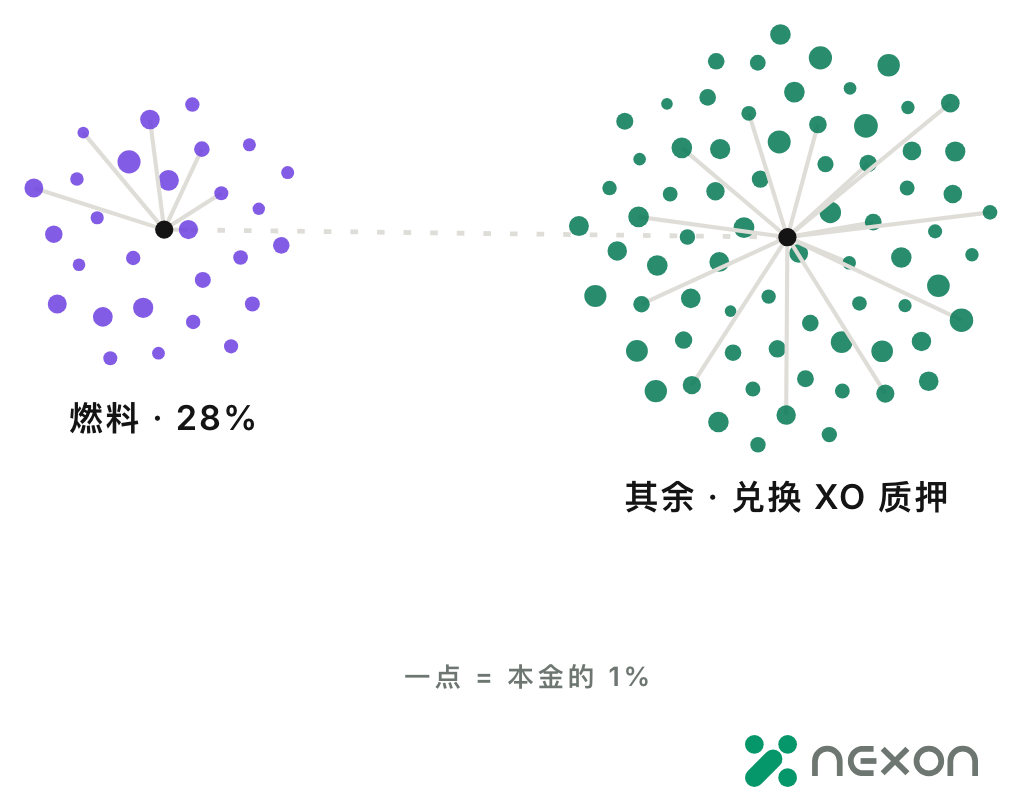
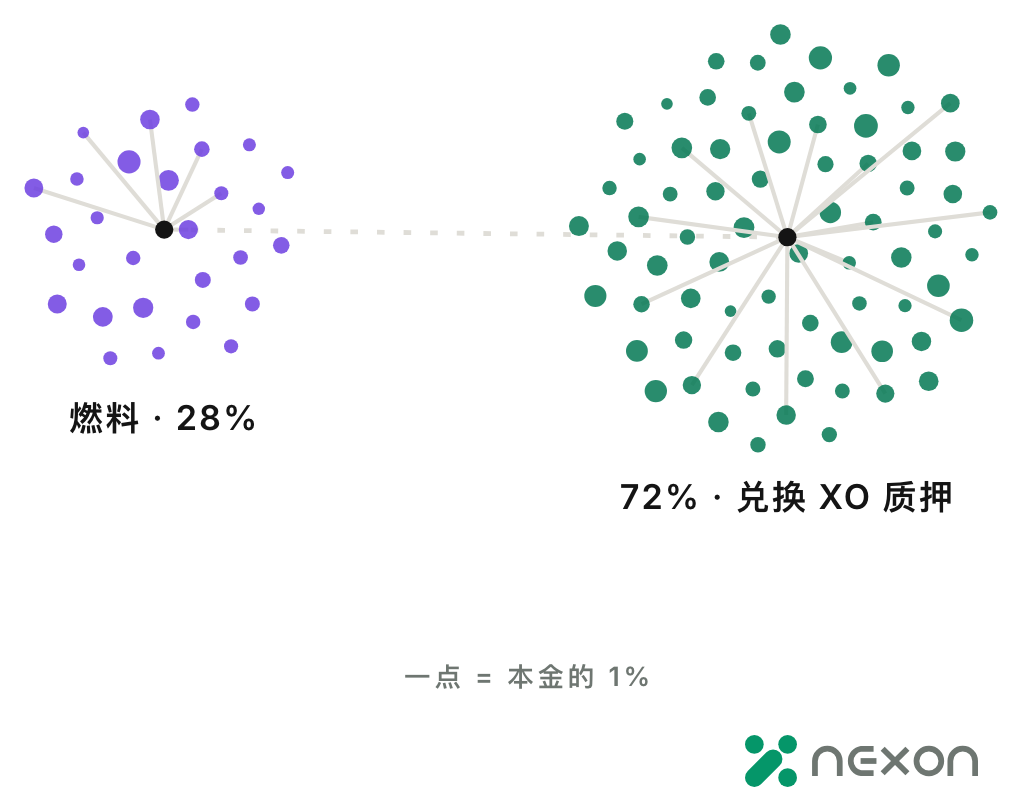
docs: spell out both halves of the deposit split
The leader's whiteboard reads 10,000 → 7,200 XO + 2,800 NX. The 2,800
half was already stated everywhere; the other half said only "the rest",
so a reader could not see where 28.8 USDT a day comes from.

- the staking leg now names its amount or its 72% share in every place
- "Stake = the rest" in the three flow blocks becomes "Stake = 72%"
- figure captions and the mermaid node follow
- the talk-track source still told writers not to mention 72%, which the
  2026-10-09 spec reverses

Changed region(s): [[0.6067, 0.5871, 0.9403, 0.6489]]

diff --git a/docs/en/05-tokenomics/value-flows.md b/docs/en/05-tokenomics/value-flows.md
@@ -7,16 +7,16 @@ icon: arrows-rotate
 
 NEXON's economy has several flows. **Keeping them on separate ledgers is the precondition for reading the mechanism; seen together, they are the engine behind NX.**
 
-<figure><img src="../.gitbook/assets/onepage-03-pipeline.svg" alt="Six steps of a deposit: deposit → fuel buys NX with 28% → the rest is swapped into XO and staked → settlement every 12 hours → static withdrawal burns 10% – 30% NX → restake from 100 USDT"><figcaption>The path of a deposit: from staking to burn, and on to the next order</figcaption></figure>
+<figure><img src="../.gitbook/assets/onepage-03-pipeline.svg" alt="Six steps of a deposit: deposit → fuel buys NX with 28% → the other 72% is swapped into XO and staked → settlement every 12 hours → static withdrawal burns 10% – 30% NX → restake from 100 USDT"><figcaption>The path of a deposit: from staking to burn, and on to the next order</figcaption></figure>
 
 ## Flow ① The deposit split <a href="#flow-1-the-deposit-split" id="flow-1-the-deposit-split"></a>
 
 ```text
 Fuel  = 0.28 × P   → buys NX at 1 USDT each → fuel
-Stake = the rest   → swapped into XO → staked, settled every 12 hours
+Stake = 72%        → swapped into XO → staked, settled every 12 hours
 ```
 
-Deposit 10,000 USDT: 2,800 NX are held as fuel, the rest is swapped into XO and earns 28.8 – 86.4 USDT a day. **Every deposit buys.**
+Deposit 10,000 USDT: 2,800 NX are held as fuel, 7,200 USDT is swapped into XO and earns 28.8 – 86.4 USDT a day. **Every deposit buys.**
 
 ## Flow ② Fuel <a href="#flow-2-the-fuel-wallet" id="flow-2-the-fuel-wallet"></a>
 
@@ -68,7 +68,7 @@ Referral rewards are calculated on each downline's daily static output, up to 20
 ```mermaid
 flowchart LR
     P["Staking deposit P"] --> B["28% buys NX"]
-    P --> S["Rest swapped into XO and staked"]
+    P --> S["72% swapped into XO and staked"]
     B --> W["Fuel · in only"]
     S --> R["Settled every 12 h at 0.2% – 0.6%"]
     R --> C{"Settlement speed"}

diff --git a/docs/zh/05-tokenomics/value-flows.md b/docs/zh/05-tokenomics/value-flows.md
@@ -7,16 +7,16 @@ icon: arrows-rotate
 
 NEXON 的经济里有好几条流。**把它们分开记账，是读懂这套机制的前提；把它们放到一起看，就是 NX 的上涨引擎。**
 
-<figure><img src="../.gitbook/assets/onepage-03-pipeline.svg" alt="一笔入金的六步：入金 → 燃料 28% 买入 NX → 其余兑换 XO 质押 → 每 12 小时结算 → 提取收益销毁 10% – 30% NX → 收益复投"><figcaption>一笔入金的动线：从质押到销毁，再到下一单</figcaption></figure>
+<figure><img src="../.gitbook/assets/onepage-03-pipeline.svg" alt="一笔入金的六步：入金 → 燃料 28% 买入 NX → 其余 72% 兑换 XO 质押 → 每 12 小时结算 → 提取收益销毁 10% – 30% NX → 收益复投"><figcaption>一笔入金的动线：从质押到销毁，再到下一单</figcaption></figure>
 
 ## 流 ①　入金拆分 <a href="#flow-1-the-deposit-split" id="flow-1-the-deposit-split"></a>
 
 ```text
 燃料 = 0.28 × P   → 按当时 1 U 等值买入 NX → 燃料
-质押 = 其余部分   → 兑换 XO → 质押，每 12 小时结算
+质押 = 入金 × 72% → 兑换 XO → 质押，每 12 小时结算
 ```
 
-入金 10,000 U：2,800 枚 NX 存为燃料，其余兑换 XO 开始计息，一天 28.8 – 86.4 U。**每一笔入金都在买入。**
+入金 10,000 U：2,800 枚 NX 存为燃料，7,200 U 兑换 XO 开始计息，一天 28.8 – 86.4 U。**每一笔入金都在买入。**
 
 ## 流 ②　燃料 <a href="#flow-2-the-fuel-wallet" id="flow-2-the-fuel-wallet"></a>
 
@@ -68,7 +68,7 @@ Burn = W × b ÷ P_NX
 ```mermaid
 flowchart LR
     P["质押入金 P"] --> B["28% 买入 NX"]
-    P --> S["其余兑换 XO 质押"]
+    P --> S["其余 72% 兑换 XO 质押"]
     B --> W["燃料 · 只进不出"]
     S --> R["每 12 小时结算 0.2% – 0.6%"]
     R --> C{"提取方式"}

diff --git a/docs/en/03-architecture/trust-and-bonding.md b/docs/en/03-architecture/trust-and-bonding.md
@@ -37,10 +37,10 @@ For a deposit `P`, the current mechanism records two entries:
 
 ```text
 Fuel  = 0.28 × P   → buys NX at 1 USDT each → fuel (burn only)
-Stake = the rest   → swapped into XO → staked, settled every 12 hours
+Stake = 72%        → swapped into XO → staked, settled every 12 hours
 ```
 
-<figure><img src="../.gitbook/assets/onepage-04-fuel-wallet.svg" alt="A 10,000 USDT deposit: 28%, or 2,800 USDT, buys 2,800 NX at 1 USDT each as fuel — burn only, no transfer, no trading"><figcaption>A 10,000 USDT deposit: 2,800 NX as fuel, the rest swapped into XO and earning</figcaption></figure>
+<figure><img src="../.gitbook/assets/onepage-04-fuel-wallet.svg" alt="A 10,000 USDT deposit: 28%, or 2,800 USDT, buys 2,800 NX at 1 USDT each as fuel — burn only, no transfer, no trading"><figcaption>A 10,000 USDT deposit: 2,800 NX as fuel, 7,200 USDT swapped into XO and earning</figcaption></figure>
 
 Fuel only ever fills: no withdrawals, no transfers, burned only when static yield is withdrawn. Minimum order 100 USDT. NX is acquired through the private sale or as dynamic rewards, each carrying its own price and liquidity.
 

diff --git a/docs/en/03-architecture/agent-runtime.md b/docs/en/03-architecture/agent-runtime.md
@@ -62,7 +62,7 @@ The runtime should never ask one component both to propose an action and to poli
 | Native contracts and venue APIs | Enforce the product mechanics themselves |
 | Independent telemetry | Record what actually happened |
 
-Applied to an approved Staking Platform order, the runtime **validates** the published fields rather than improvising them. It verifies the two records: 28% bought into NX at 1 USDT each in the fuel, and the rest swapped into XO and staked. The fuel can only be burned; when fuel runs short at withdrawal, the order takes a slower settlement speed — the runtime never authorises selling another asset to cover it.
+Applied to an approved Staking Platform order, the runtime **validates** the published fields rather than improvising them. It verifies the two records: 28% bought into NX at 1 USDT each in the fuel, and the other 72% swapped into XO and staked. The fuel can only be burned; when fuel runs short at withdrawal, the order takes a slower settlement speed — the runtime never authorises selling another asset to cover it.
 
 ## Revocation and recovery
 

diff --git a/docs/en/04-product-stack/payfi.md b/docs/en/04-product-stack/payfi.md
@@ -42,7 +42,7 @@ Comparisons follow the user's constraints. Any routing incentive that could affe
 {% tab title="3 · Apply policy checks" %}
 Hard controls sit outside model judgment: account status, identity references, allowlists, blocklists, spend limits, quote freshness, reserve floors and each product's own rules. **A high confidence score does not override a failed rule.**
 
-Where a current Staking Platform order is involved, PayFi can explain and validate the deposit split: 28% buys NX at 1 USDT each as fuel, and the rest is swapped into XO and staked. The product interface does not alter these values and does not present the fuel purchase as a fee.
+Where a current Staking Platform order is involved, PayFi can explain and validate the deposit split: 28% buys NX at 1 USDT each as fuel, and the other 72% is swapped into XO and staked. The product interface does not alter these values and does not present the fuel purchase as a fee.
 {% endtab %}
 
 {% tab title="4 · Request scoped authority" %}

diff --git a/docs/zh/03-architecture/agent-runtime.md b/docs/zh/03-architecture/agent-runtime.md
@@ -62,7 +62,7 @@ flowchart TD
 | 原生合约与场所 API | 强制执行产品机制本身 |
 | 独立遥测 | 记录实际结果 |
 
-放到一笔已批准的 Staking Platform 订单上：运行时**校验**已发布的字段，而不是自己发挥。它核对 28% 按 1 U 等值买入 NX 存入燃料、其余兑换 XO 进入质押这两笔记录。燃料只能销毁；提取时燃料不够，订单换更慢的到账方式——它不会顺手授权卖掉另一种资产去补。
+放到一笔已批准的 Staking Platform 订单上：运行时**校验**已发布的字段，而不是自己发挥。它核对 28% 按 1 U 等值买入 NX 存入燃料、其余 72% 兑换 XO 进入质押这两笔记录。燃料只能销毁；提取时燃料不够，订单换更慢的到账方式——它不会顺手授权卖掉另一种资产去补。
 
 ## 撤销与恢复 <a href="#revocation-and-recovery" id="revocation-and-recovery"></a>
 

diff --git a/docs/en/02-the-translator/intent-over-operation.md b/docs/en/02-the-translator/intent-over-operation.md
@@ -51,7 +51,7 @@ The route passes through four layers of rules, and a model's confidence score su
 * **Venue policy** — account status and jurisdictional eligibility;
 * **Supplier policy** — inventory and fulfillment conditions.
 
-Where the Staking Platform is involved, the check follows the real mechanism: 28% buys NX at 1 USDT each as fuel, and the rest is swapped into XO and staked. The interface cannot present the fuel purchase as a fee, nor the fuel as a transferable balance.
+Where the Staking Platform is involved, the check follows the real mechanism: 28% buys NX at 1 USDT each as fuel, and the other 72% is swapped into XO and staked. The interface cannot present the fuel purchase as a fee, nor the fuel as a transferable balance.
 {% endtab %}
 
 {% tab title="4 · User Approval" %}

diff --git a/docs/en/one-page/README.md b/docs/en/one-page/README.md
@@ -80,7 +80,7 @@ On the product side NEXON is a **super financial-social ecosystem**: AI-native P
 Take a 10,000 USDT deposit. It is split in two the moment the order opens, automatically:
 
 - **28% buys NX.** 2,800 NX, bought at 1 USDT each, are held as fuel. Fuel only ever fills: nothing in it can be withdrawn or transferred, and it is spent in one way only — burned when static yield is withdrawn.
-- **The rest is swapped into XO and staked.** It settles every 12 hours — 28.8 – 86.4 USDT a day — and the static yield lands in XO, withdrawable at any time.
+- **The other 7,200 USDT is swapped into XO and staked.** It settles every 12 hours — 28.8 – 86.4 USDT a day — and the static yield lands in XO, withdrawable at any time.
 
 ![](../.gitbook/assets/onepage-04-fuel-wallet.svg)
 
